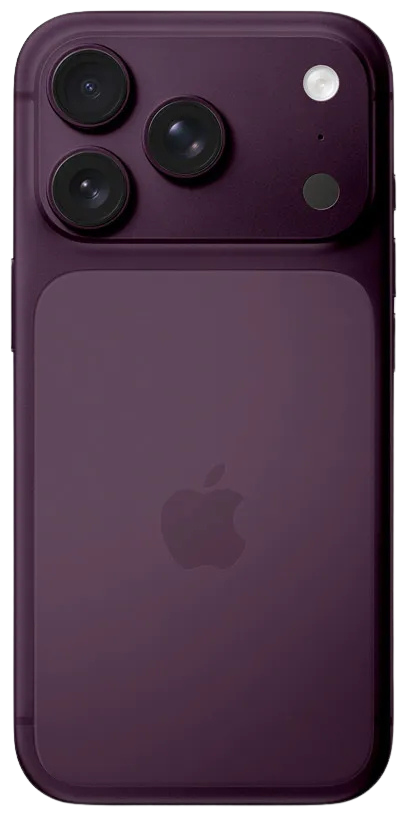
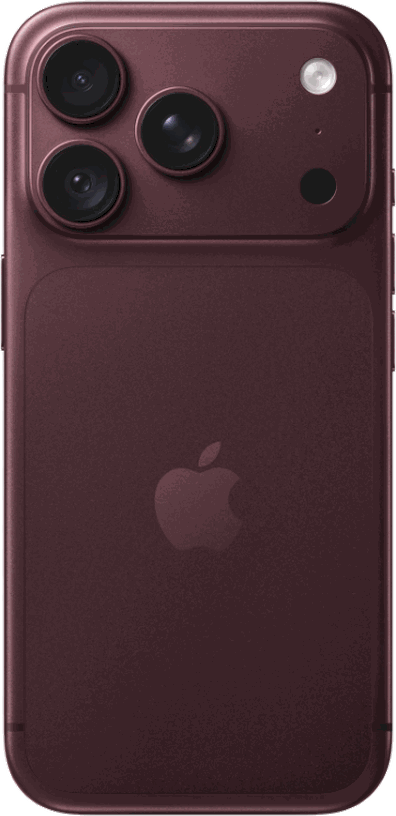
colors: real Burgundy/Glacier phone photos + matching tint
Claude-Session: https://claude.ai/code/session_015RZKSCp6Tgw5TGPNNHRxAX

diff --git a/studio/color/index.html b/studio/color/index.html
@@ -130,8 +130,8 @@
     pro:{ nm:"iPhone 18 Pro", colors:[
       {id:"natural",nm:"銀色",    en:"Silver",   hex:"#cfcabf", img:"titanium-natural.png", base:[214,210,202], bloom:[36,34,30], neg:true},
       {id:"black",  nm:"黑色",    en:"Black",    hex:"#1c1c20", img:"titanium-black.png",   base:[10,10,11],  bloom:[216,220,226]},
-      {id:"plum",   nm:"勃根地紅", en:"Burgundy", hex:"#6f4258", img:"titanium-plum.png",    base:[18,10,16],  bloom:[203,150,182]},
-      {id:"blue",   nm:"冰川藍",   en:"Glacier",  hex:"#7fa3cf", img:"titanium-blue.png",    base:[9,15,23],   bloom:[150,186,220]}
+      {id:"plum",   nm:"勃根地紅", en:"Burgundy", hex:"#7a3340", img:"titanium-plum.png",    base:[22,9,12],   bloom:[200,105,110]},
+      {id:"blue",   nm:"冰川藍",   en:"Glacier",  hex:"#9cc0e0", img:"titanium-blue.png",    base:[11,17,25],  bloom:[175,205,230]}
     ]}
   };
   MODELS.promax={ nm:"iPhone 18 Pro Max", colors:MODELS.pro.colors };

diff --git a/studio/finder/index.html b/studio/finder/index.html
@@ -141,8 +141,8 @@
     pro:{ nm:"iPhone 18 Pro", colors:[
       {id:"natural",nm:"銀色",    base:[214,210,202], bloom:[36,34,30], neg:true},
       {id:"black",  nm:"黑色",    base:[10,10,11],  bloom:[216,220,226]},
-      {id:"plum",   nm:"勃根地紅", base:[18,10,16],  bloom:[203,150,182]},
-      {id:"blue",   nm:"冰川藍",   base:[9,15,23],   bloom:[150,186,220]}
+      {id:"plum",   nm:"勃根地紅", base:[22,9,12],   bloom:[200,105,110]},
+      {id:"blue",   nm:"冰川藍",   base:[11,17,25],  bloom:[175,205,230]}
     ]}
   };
   MODELS.promax={ nm:"iPhone 18 Pro / Pro Max", colors:MODELS.pro.colors };
